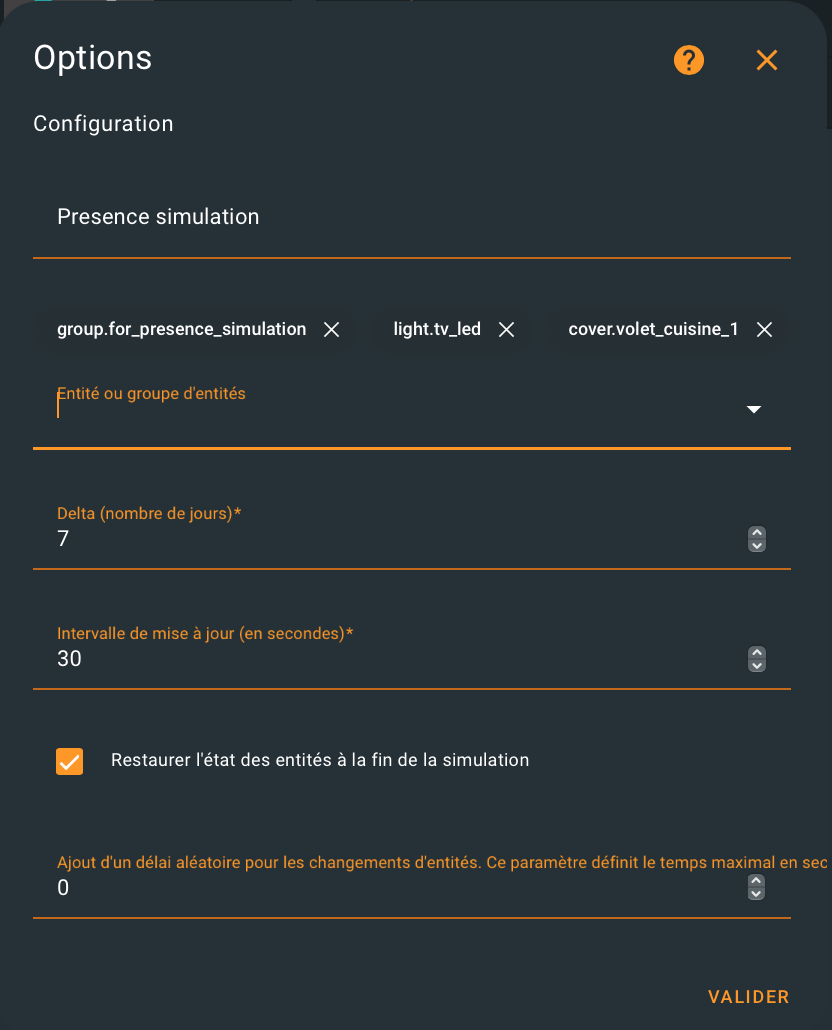
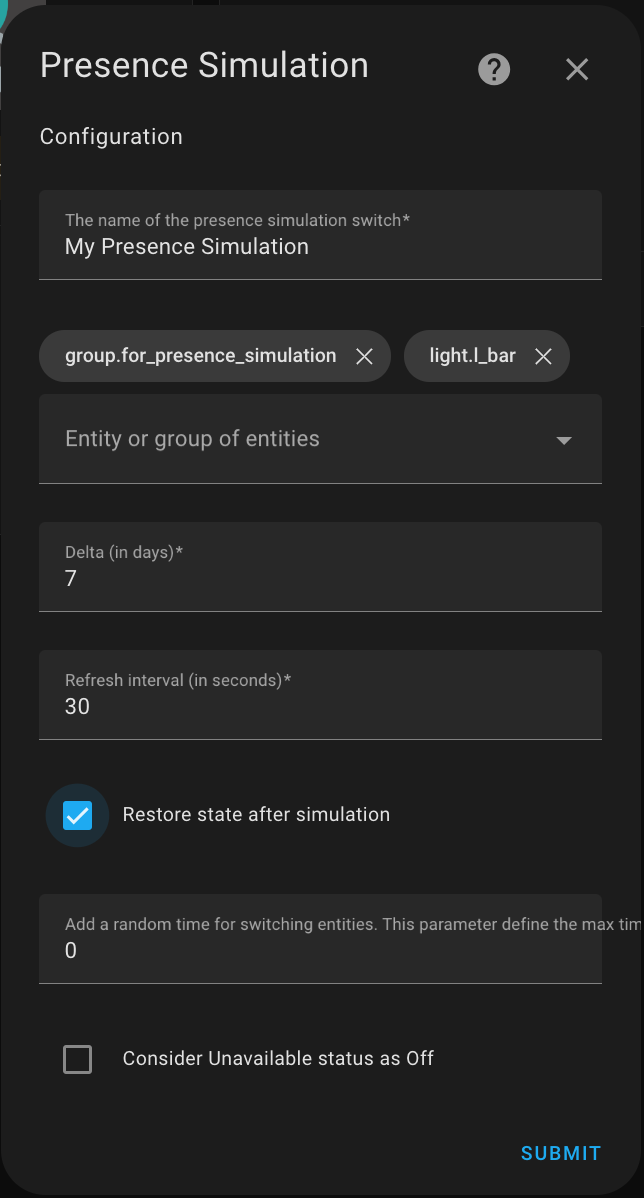
Update custom component presence simulation to 4.8

diff --git a/custom_components/presence_simulation/__init__.py b/custom_components/presence_simulation/__init__.py
@@ -11,6 +11,7 @@ from homeassistant.components.recorder.history import get_significant_states
 from homeassistant.components.recorder import get_instance
 from homeassistant.const import EVENT_HOMEASSISTANT_STARTED
 from homeassistant.helpers.entity_registry import async_migrate_entries
+from homeassistant.config_entries import ConfigEntry
 from .const import (
         DOMAIN,
         SWITCH_PLATFORM,
@@ -474,7 +475,7 @@ async def update_listener(hass, entry):
             return
         entity.update_config(entry)
 
-async def async_migrate_entry(hass, config_entry) -> bool:
+async def async_migrate_entry(hass, config_entry: ConfigEntry):
     _LOGGER.debug("Migrating from version %s", config_entry.version)
     if config_entry.version == 1:
         _LOGGER.debug("Will migrate to version 2")
@@ -489,12 +490,12 @@ async def async_migrate_entry(hass, config_entry) -> bool:
         await async_migrate_entries(hass, config_entry.entry_id, update_unique_id)
         _LOGGER.debug("Entries migrated")
 
-        hass.config_entries.async_update_entry(config_entry, data=new, unique_id=new_unique_id)
-        config_entry.version = 2
+        hass.config_entries.async_update_entry(config_entry, data=new, unique_id=new_unique_id, version=2)
+
     if config_entry.version == 2:
         _LOGGER.debug("Will migrate to version 3")
         new = {**config_entry.data}
         new["unavailable_as_off"] = False
-        hass.config_entries.async_update_entry(config_entry, data=new)
-        config_entry.version = 3
+        hass.config_entries.async_update_entry(config_entry, data=new, version=3)
+
     return True

diff --git a/custom_components/presence_simulation/config_flow.py b/custom_components/presence_simulation/config_flow.py
@@ -15,7 +15,7 @@ from .const import (
 _LOGGER = logging.getLogger(__name__)
 
 class PresenceSimulationConfigFlow(config_entries.ConfigFlow, domain=DOMAIN):
-    VERSION = 2
+    VERSION = 3
     data = None
     async def async_create_flow(handler, context, data):
             """Create flow."""
